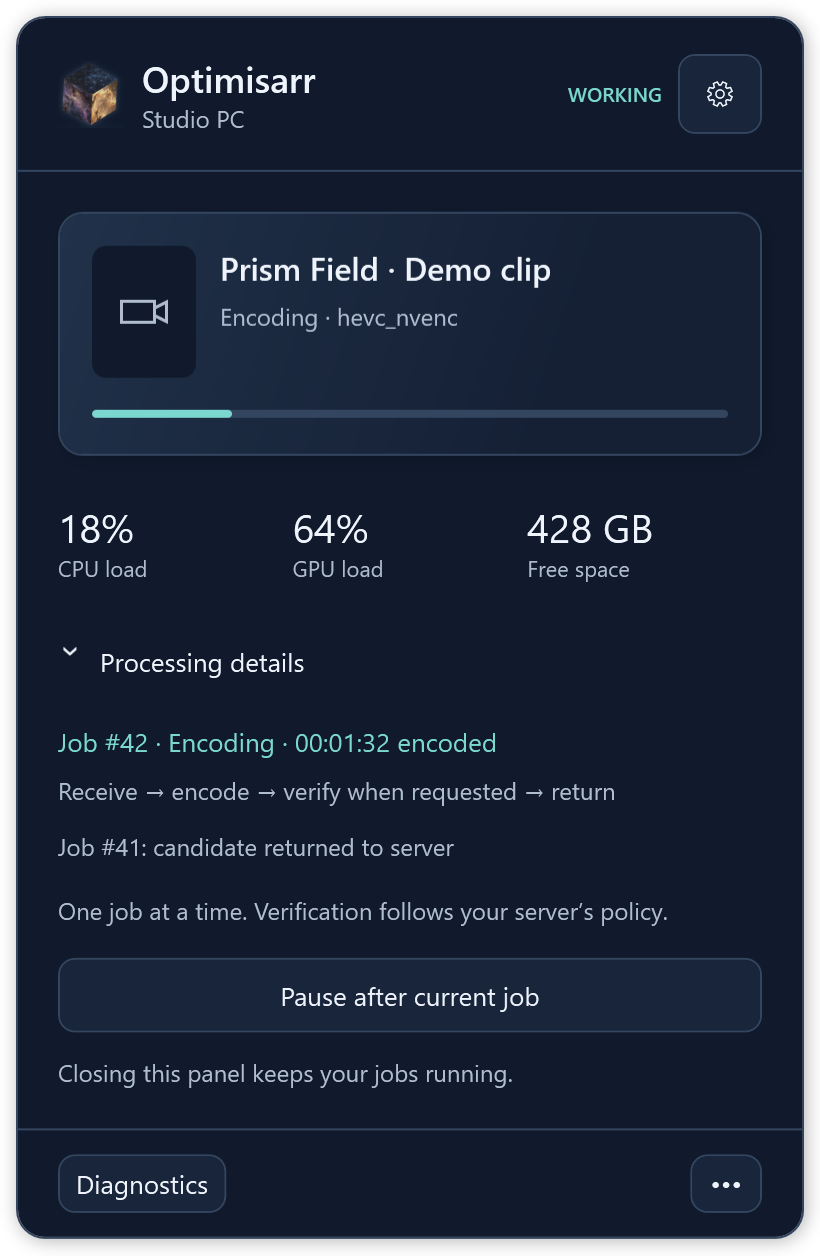
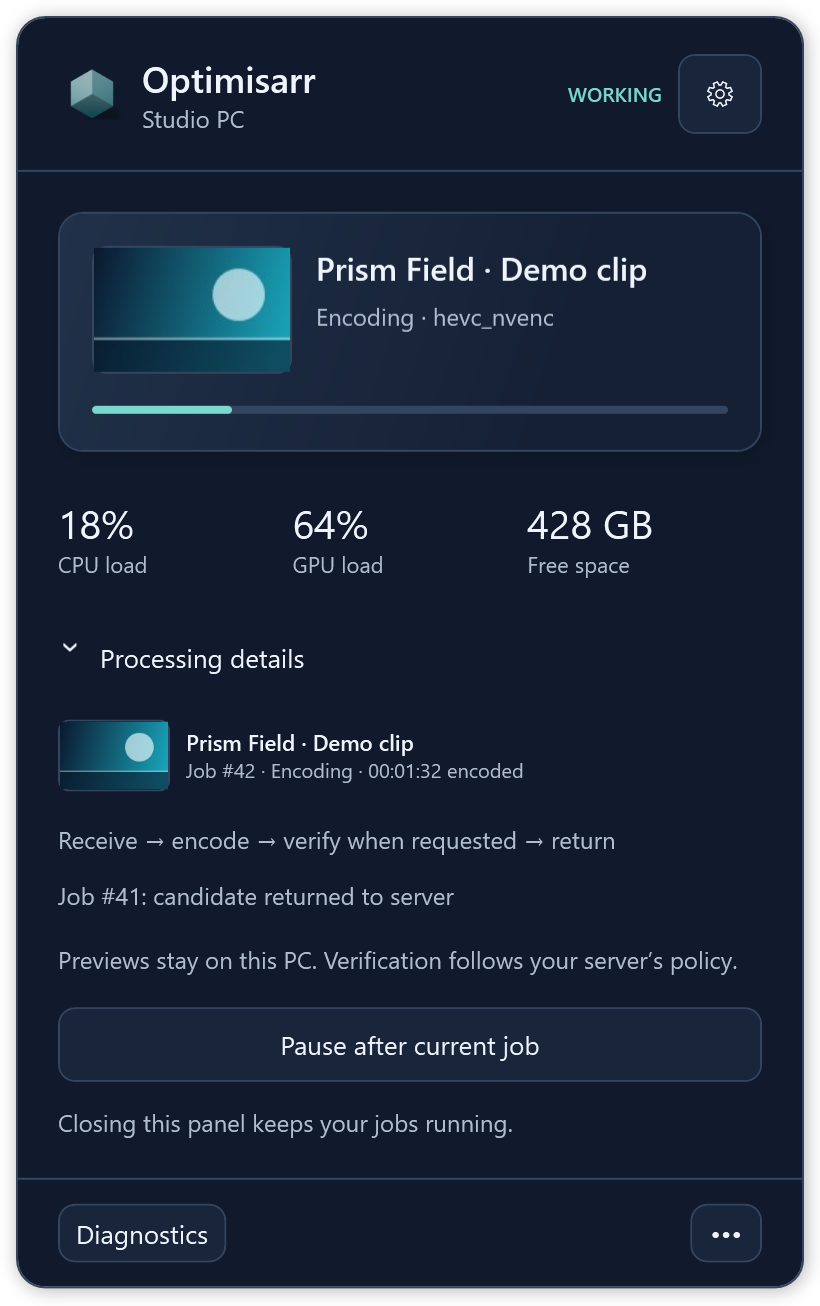
Bound preview resources and refresh Windows native documentation

diff --git a/docs/design/windows-sidecar/native.html b/docs/design/windows-sidecar/native.html
@@ -16,14 +16,14 @@
 </div>
 <p id="description">Activity shows the current stage and resource readings. The animated encode indicator is not a percentage or completion estimate.</p>
 <section>
-<article><h2>Windows tray</h2><img id="windows" src="../../images/optimisarr-sidecar-windows-encoding.png" alt="Dark Windows Compact Monitor showing the fabricated Prism Field encoding job, CPU and GPU readings, and pause control"><p>The Windows service works independently of the tray. Its media well uses a film placeholder; current assignments do not supply artwork.</p></article>
+<article><h2>Windows tray</h2><img id="windows" src="../../images/optimisarr-sidecar-windows-encoding.png" alt="Dark Windows Compact Monitor showing a fabricated Prism Field frame preview, CPU and GPU readings, and pause control"><p>The Windows service works independently of the tray. The panel samples a small frame from the local source while viewed, with a labelled fallback for unsupported media.</p></article>
 <article><h2>Mac menu bar</h2><img id="mac" src="../../images/optimisarr-sidecar-macos-encoding.png" alt="Dark Mac Compact Monitor showing the fabricated Prism Field encoding job, held-job count, and concurrency controls"><p>The Mac panel retains frame previews and one-to-four-job controls. macOS GPU readings do not report VideoToolbox media-engine usage.</p></article>
 </section>
 <footer><p>These fixtures never pair with a server or run media jobs. Native placement tests separately verify the Mac menu-bar anchor and Windows working-area anchor through resizing and navigation. See the <a href="README.md">implementation notes</a> and <a href="../../../sidecars/windows/installer/README.md">Windows installer guide</a>.</p><p><a href="index.html">Historical design studies — proposed controls, not shipped UI</a></p></footer>
 </main>
 <script>
 let theme='dark',view='encoding';
-const descriptions={encoding:'Activity shows the current stage and resource readings. The animated encode indicator is not a percentage or completion estimate.',details:'Processing details expands the technical readout. The Mac image is a focused crop of the disclosure and fabricated frame strip; its body scrolls when details exceed the compact panel height.',preferences:'Preferences stays inside each native panel. Mac controls work location and login behavior; Windows provides pairing, worker start and per-user tray sign-in.'};
+const descriptions={encoding:'Activity shows the current stage, a local frame preview when available, and resource readings. The animated encode indicator is not a percentage or completion estimate.',details:'Processing details expands the technical readout. Windows keeps each frame with its job; the Mac image is a focused crop of the disclosure. Each panel scrolls when details exceed its compact height.',preferences:'Preferences stays inside each native panel. Mac controls work location and login behavior; Windows provides pairing, worker start and per-user tray sign-in.'};
 const information={encoding:'fabricated Prism Field encoding job, resource readings and pause controls',details:'expanded Processing details for the fabricated Prism Field job and the receive, encode, verify and return stages',preferences:'Preferences with work location and login controls on Mac, or pairing, worker start and tray sign-in on Windows'};
 function update(){for(const [id,platform] of [['windows','windows'],['mac','macos']]){const image=document.getElementById(id);image.src=`../../images/optimisarr-sidecar-${platform}-${theme==='light'?'light-':''}${view}.png`;const detail=view==='preferences'?(id==='mac'?'Preferences with work location and login controls':'Preferences with pairing, worker start and tray sign-in controls'):information[view];image.alt=`${theme==='light'?'Light':'Dark'} ${id==='mac'?'Mac':'Windows'} native Compact Monitor showing ${detail}`;}document.getElementById('description').textContent=descriptions[view];document.querySelectorAll('[data-theme]').forEach(b=>b.setAttribute('aria-pressed',String(b.dataset.theme===theme)));document.querySelectorAll('[data-view]').forEach(b=>b.setAttribute('aria-pressed',String(b.dataset.view===view)));}
 document.querySelectorAll('[data-theme]').forEach(b=>b.addEventListener('click',()=>{theme=b.dataset.theme;update();}));document.querySelectorAll('[data-view]').forEach(b=>b.addEventListener('click',()=>{view=b.dataset.view;update();}));

diff --git a/sidecars/windows/src/Optimisarr.Sidecar.Tray/MonitorRenderer.cs b/sidecars/windows/src/Optimisarr.Sidecar.Tray/MonitorRenderer.cs
@@ -1,5 +1,6 @@
 using System.IO;
 using System;
+using System.Linq;
 using System.Windows;
 using System.Windows.Media;
 using System.Windows.Media.Imaging;
@@ -12,24 +13,27 @@ internal static class MonitorRenderer
     public static void Render(string directory)
     {
         Directory.CreateDirectory(directory);
-        foreach (var state in new[] { "idle", "encoding", "verifying", "offline", "light-encoding", "details", "light-details", "preferences", "light-preferences", "preview-fallback", "light-preview-fallback", "two-jobs", "light-two-jobs" })
+        foreach (var state in new[] { "idle", "encoding", "verifying", "offline", "light-encoding", "details", "light-details", "preferences", "light-preferences", "preview-fallback", "light-preview-fallback", "two-jobs", "light-two-jobs", "many-jobs", "light-many-jobs" })
         {
             var pose = state.Replace("light-", "");
             var model = new MonitorViewModel();
             var preview = pose == "preview-fallback" ? null : DemoFrame(Color.FromRgb(24, 161, 182));
-            var jobs = pose is "encoding" or "verifying" or "details" or "preview-fallback" or "two-jobs"
+            var jobs = pose is "encoding" or "verifying" or "details" or "preview-fallback" or "two-jobs" or "many-jobs"
                 ? new[] { new MonitorJob(42, "Prism Field · Demo clip", "hevc_nvenc",
                     pose != "verifying" ? RemoteStage.Encoding : RemoteStage.Measuring, 92, preview) }
                 : [];
             if (pose == "two-jobs") jobs = [.. jobs, new MonitorJob(43, "Orbit Study · Demo clip", "hevc_nvenc",
                 RemoteStage.Encoding, 48, DemoFrame(Color.FromRgb(180, 120, 220)))];
+            if (pose == "many-jobs") jobs = [.. jobs, .. Enumerable.Range(43, 4).Select(id => new MonitorJob(id,
+                $"Synthetic job {id} · Demo clip", "hevc_nvenc", RemoteStage.Encoding, id,
+                id < 46 ? DemoFrame(Color.FromRgb(180, 120, 220)) : null))];
             model.Update(new MonitorSnapshot("Studio PC", "Connected", "Connected to server", false, "https://optimisarr.example.com",
                 new MachineLoad(0.18, 0.64), 428L * 1_073_741_824,
                 jobs,
                 "Job #41: candidate returned to server", SidecarBuild.Version));
             if (pose == "offline") model.Disconnect("The worker is unavailable. Live readings have been cleared.");
             var window = new MonitorWindow(live: false) { DataContext = model };
-            window.ProcessingDetails.IsExpanded = pose is "details" or "two-jobs";
+            window.ProcessingDetails.IsExpanded = pose is "details" or "two-jobs" or "many-jobs";
             if (pose == "preferences")
             {
                 window.ActivityPage.Visibility = Visibility.Collapsed;

diff --git a/sidecars/windows/src/Optimisarr.Sidecar.Core/Session/FramePreview.cs b/sidecars/windows/src/Optimisarr.Sidecar.Core/Session/FramePreview.cs
@@ -28,16 +28,21 @@ public sealed class FfmpegFramePreviewExtractor : IFramePreviewExtractor
             UseShellExecute = false,
             CreateNoWindow = true,
             RedirectStandardOutput = true,
+            RedirectStandardError = true,
         };
         foreach (var argument in Arguments(source, seconds)) start.ArgumentList.Add(argument);
         using var process = new Process { StartInfo = start };
+        using var timeout = CancellationTokenSource.CreateLinkedTokenSource(cancellationToken);
+        timeout.CancelAfter(TimeSpan.FromSeconds(3));
+        Task? errorDrain = null;
         try
         {
             if (!process.Start()) return null;
+            // FFmpeg may report malformed media at length. Drain stderr concurrently so its pipe
+            // cannot stall extraction; stdout is the only data sent to the monitor.
+            errorDrain = process.StandardError.BaseStream.CopyToAsync(Stream.Null, timeout.Token);
             try { process.PriorityClass = ProcessPriorityClass.BelowNormal; }
             catch (Exception error) when (error is System.ComponentModel.Win32Exception or InvalidOperationException) { }
-            using var timeout = CancellationTokenSource.CreateLinkedTokenSource(cancellationToken);
-            timeout.CancelAfter(TimeSpan.FromSeconds(3));
             using var output = new MemoryStream();
             var buffer = new byte[4096];
             while (true)
@@ -48,6 +53,7 @@ public sealed class FfmpegFramePreviewExtractor : IFramePreviewExtractor
                 output.Write(buffer, 0, count);
             }
             await process.WaitForExitAsync(timeout.Token);
+            await errorDrain;
             return process.ExitCode == 0 ? output.ToArray() : null;
         }
         catch (Exception error) when (error is OperationCanceledException or IOException or System.ComponentModel.Win32Exception or InvalidOperationException)
@@ -65,6 +71,11 @@ public sealed class FfmpegFramePreviewExtractor : IFramePreviewExtractor
                 }
             }
             catch (Exception error) when (error is InvalidOperationException or System.ComponentModel.Win32Exception or TimeoutException) { }
+            if (errorDrain is not null)
+            {
+                try { await errorDrain.WaitAsync(TimeSpan.FromSeconds(1)); }
+                catch (Exception error) when (error is OperationCanceledException or IOException or TimeoutException) { }
+            }
         }
     }
 }

diff --git a/sidecars/windows/tests/Optimisarr.Sidecar.Core.Tests/MonitorTests.cs b/sidecars/windows/tests/Optimisarr.Sidecar.Core.Tests/MonitorTests.cs
@@ -179,7 +179,7 @@ public sealed class MonitorTests
             frame[0] = frame[^2] = 0xff;
             frame[1] = 0xd8;
             frame[^1] = 0xd9;
-            Assert.True(monitor.PublishPreview(id, frame));
+            Assert.Equal(id <= MonitorProtocol.MaximumPreviewJobs, monitor.PublishPreview(id, frame));
         }
         var (jobs, _) = monitor.Read(includePreviews: true);
         Assert.Equal(MonitorProtocol.MaximumPreviewJobs, jobs.Count(job => job.PreviewJpeg is not null));

diff --git a/sidecars/windows/src/Optimisarr.Sidecar.Service/WorkerMonitor.cs b/sidecars/windows/src/Optimisarr.Sidecar.Service/WorkerMonitor.cs
@@ -51,6 +51,7 @@ public sealed class WorkerMonitor
         lock (_gate)
         {
             if (!_jobs.ContainsKey(jobId) || _now() - _previewRequested >= TimeSpan.FromSeconds(5)) return false;
+            if (!_previews.ContainsKey(jobId) && _previews.Count >= MonitorProtocol.MaximumPreviewJobs) return false;
             _previews[jobId] = (byte[])jpeg.Clone();
             return true;
         }

diff --git a/sidecars/windows/README.md b/sidecars/windows/README.md
@@ -52,6 +52,12 @@ example server addresses. No copyrighted media material is used.
 
 <img src="../../docs/images/optimisarr-sidecar-windows-encoding.png" width="390" alt="Dark Windows Compact Monitor showing a fabricated Prism Field encoding job and resource readings">
 
+<img src="../../docs/images/optimisarr-sidecar-windows-two-jobs.png" width="390" alt="Expanded Windows Processing details showing two separate fabricated job previews">
+
+If a frame is unavailable, the monitor keeps a labelled placeholder. Previews are sampled from
+the worker's local source only while the activity panel is open; they never affect encoding or
+verification.
+
 <img src="../../docs/images/optimisarr-sidecar-windows-light-preferences.png" width="390" alt="Light Windows Preferences showing pairing, worker start and tray sign-in controls inside the native panel">
 
 [Compare native activity, Processing details and Preferences on both platforms](../../docs/design/windows-sidecar/native.html).

diff --git a/docs/design/windows-sidecar/README.md b/docs/design/windows-sidecar/README.md
@@ -79,6 +79,12 @@ current AppKit and WPF views with isolated fixture data; no live worker is conta
 
 ![Windows Compact Monitor with fabricated Prism Field job and expanded processing details](../../images/optimisarr-sidecar-windows-details.png)
 
+![Windows Compact Monitor with two fabricated active jobs and separate frame previews](../../images/optimisarr-sidecar-windows-two-jobs.png)
+
+The Windows tray now samples a small local source frame only while its activity panel is visible.
+The [fallback fixture](../../images/optimisarr-sidecar-windows-preview-fallback.png) shows the
+labelled state when video cannot be decoded or the job is audio-only.
+
 See [the native comparison](native.html) for light/dark activity and Preferences views. The
 [original design studies](index.html) remain historical mockups with proposed controls, using a
 fabricated geometric scene in place of real media artwork. They are not evidence of shipped features.
